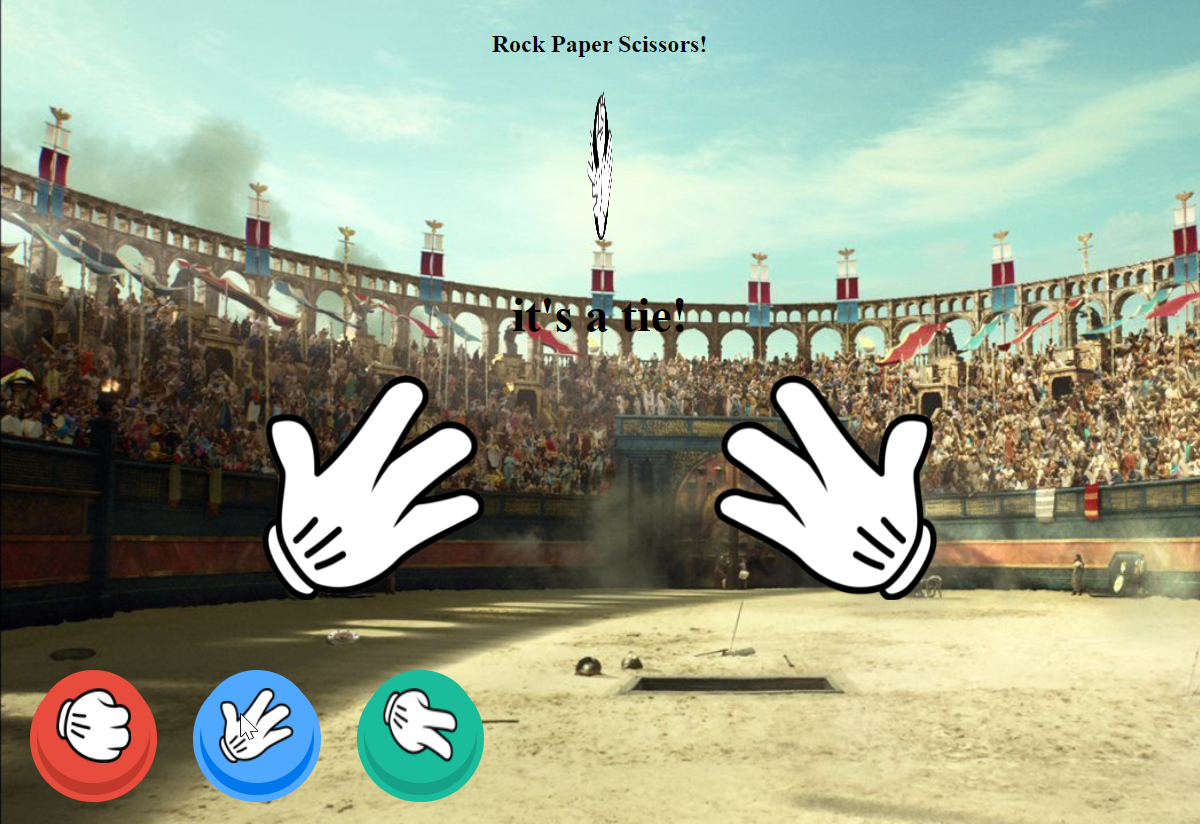
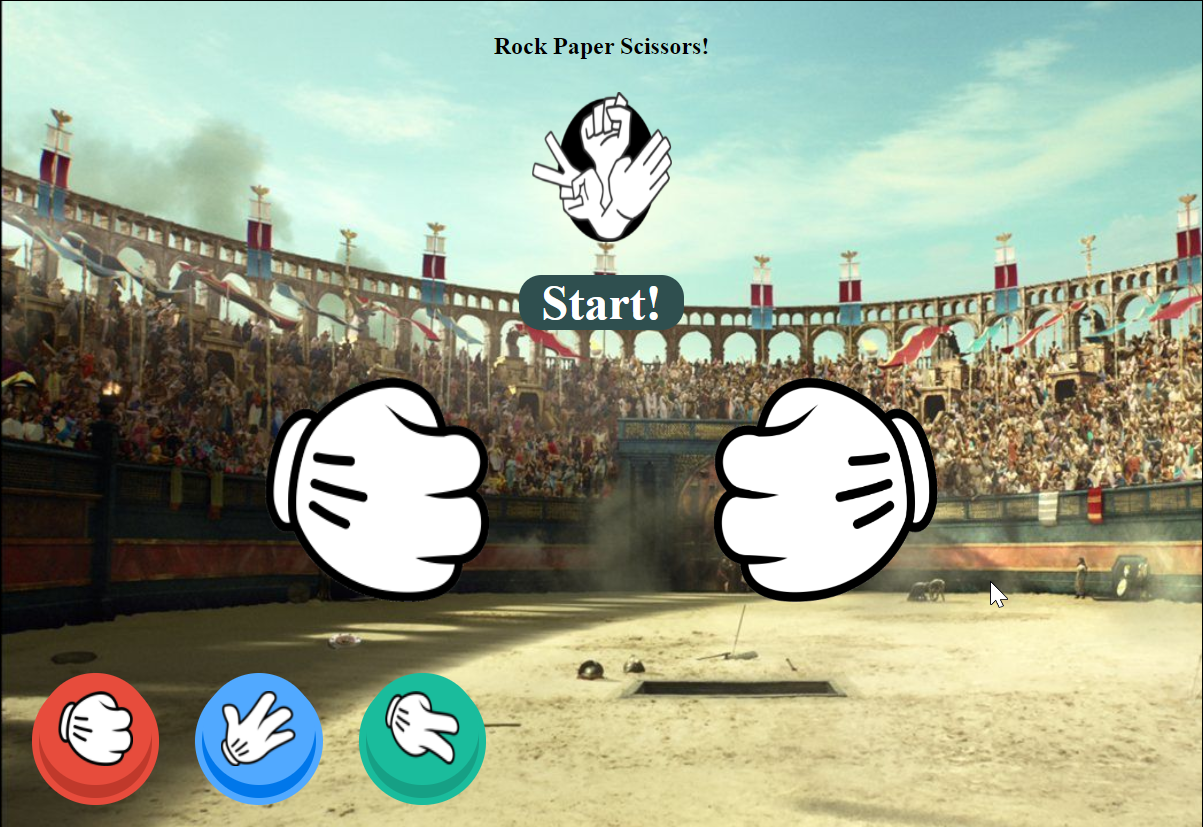
add rps to portfolio

diff --git a/portfolio/index.html b/portfolio/index.html
@@ -559,8 +559,20 @@
                 <div class="row margin-b-40">
                     <div class="col-sm-6">
                         <h2>Rock Paper Scissors</h2>
-                        <p>Rock Paper Scissors</p>
+                        <p>This rock paper scissors game uses images and css animations to create an appealing look. This game is complete with music and sound effects. Click the demo to try it out for yourself.</p>
                     </div>
+                    <div class="row" >
+                        <div class="col-sm-6">
+                            <a href="http://jimmyleespann.com/rps" target="_blank">
+                                <img class="img-responsive" style="width: 250px; margin: 0 auto; margin-top: 20px;" src="../img/badges/demo-badge.png">
+                            </a>
+                        </div>
+                        <div class="col-sm-6">
+                            <a href="https://github.com/JimmySpann/rock-paper-scissors" target="_blank">
+                                <img class="img-responsive" style="width: 250px; margin: 0 auto; margin-top: 20px;" src="../img/badges/github-badge.png">
+                            </a>
+                        </div>
+                   </div>
                 </div>
                 <!--// end row -->
 
@@ -574,8 +586,8 @@
                                 <img class="full-width img-responsive" src="../img/portfolio/rps/rps-5.gif" alt="Portfolio Image">
                             </div>
                             <div class="work-content">
-                                <h3 class="color-white margin-b-5">Client Search</h3>
-                                <p class="color-white margin-b-0">Search for clients created on the database.</p>
+                                <h3 class="color-white margin-b-5">Rock Paper Scissors!</h3>
+                                <p class="color-white margin-b-0">You can play against a computer to test your luck! Press the buttons to choose your move.</p>
                             </div>                        
                         </div>
                         <!-- End Work -->
@@ -587,8 +599,8 @@
                                 <img class="full-width img-responsive" src="../img/portfolio/rps/rps-1.jpg" alt="Portfolio Image">
                             </div>
                             <div class="work-content">
-                                <h3 class="color-white margin-b-5">Default Look</h3>
-                                <p class="color-white margin-b-0">This is what you see when you first log on.</p>
+                                <h3 class="color-white margin-b-5">Start Screen</h3>
+                                <p class="color-white margin-b-0">Press start to start the game.</p>
                             </div>
                         </div>
                         <!-- End Work -->
@@ -600,34 +612,8 @@
                                 <img class="full-width img-responsive" src="../img/portfolio/rps/rps-2.png" alt="Portfolio Image">
                             </div>
                             <div class="work-content">
-                                <h3 class="color-white margin-b-5">BMI Chart</h3>
-                                <p class="color-white margin-b-0">When a client is chosen, a chart will show the past data entries.</p>
-                            </div>
-                        </div>
-                        <!-- End Work -->
-                    </div>
-                    <div class="masonry-grid-item col-xs-6 col-sm-6 col-md-4">
-                        <!-- Work -->
-                        <div class="work wow fadeInUp" data-wow-duration=".3" data-wow-delay=".4s">
-                            <div class="work-overlay">
-                                <img class="full-width img-responsive" src="../img/portfolio/rps/rps-3.png" alt="Portfolio Image">
-                            </div>
-                            <div class="work-content">
-                                <h3 class="color-white margin-b-5">Adding New Entry</h3>
-                                <p class="color-white margin-b-0">You can add the weight and height of a baby and it will calcuate the bmi. The calculator supports lb, kg, in, and cm.</p>
-                            </div>
-                        </div>
-                        <!-- End Work -->
-                    </div>
-                    <div class="masonry-grid-item col-xs-6 col-sm-6 col-md-4">
-                        <!-- Work -->
-                        <div class="work wow fadeInUp" data-wow-duration=".3" data-wow-delay=".5s">
-                            <div class="work-overlay">
-                                <img class="full-width img-responsive" src="../img/portfolio/rps/rps-4.png" alt="Portfolio Image">
-                            </div>
-                            <div class="work-content">
-                                <h3 class="color-white margin-b-5">Edit Client Data</h3>
-                                <p class="color-white margin-b-0">If you made a mistake, you can go back and edit the records you've added.</p>
+                                <h3 class="color-white margin-b-5">Its A Tie!</h3>
+                                <p class="color-white margin-b-0">The game can tell you the result with hands as a visual representation.</p>
                             </div>
                         </div>
                         <!-- End Work -->
